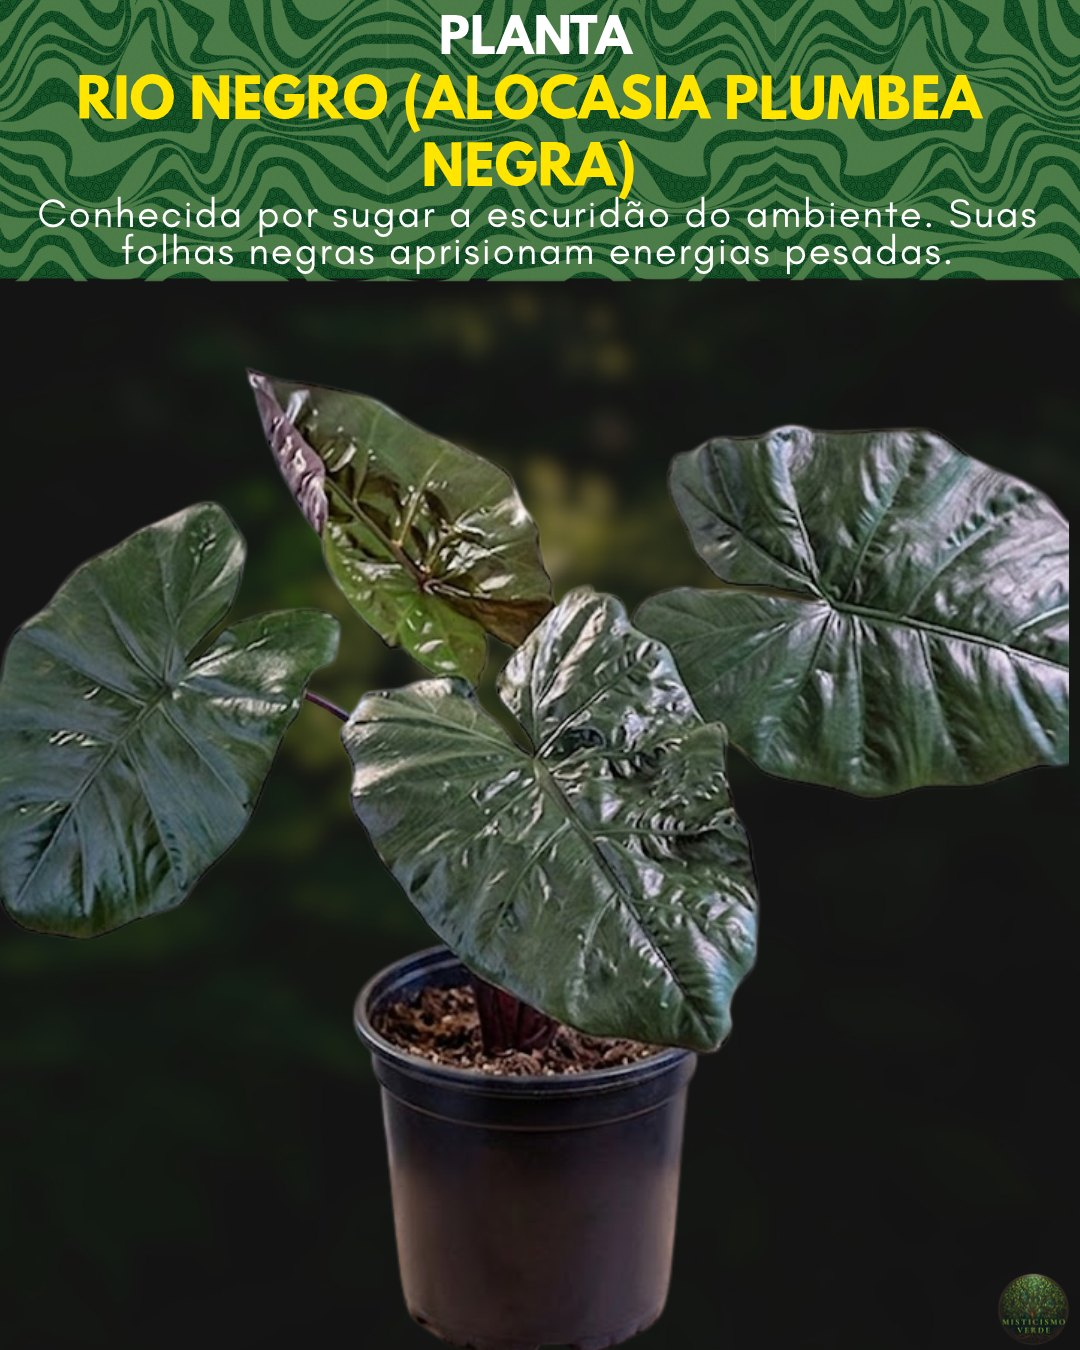
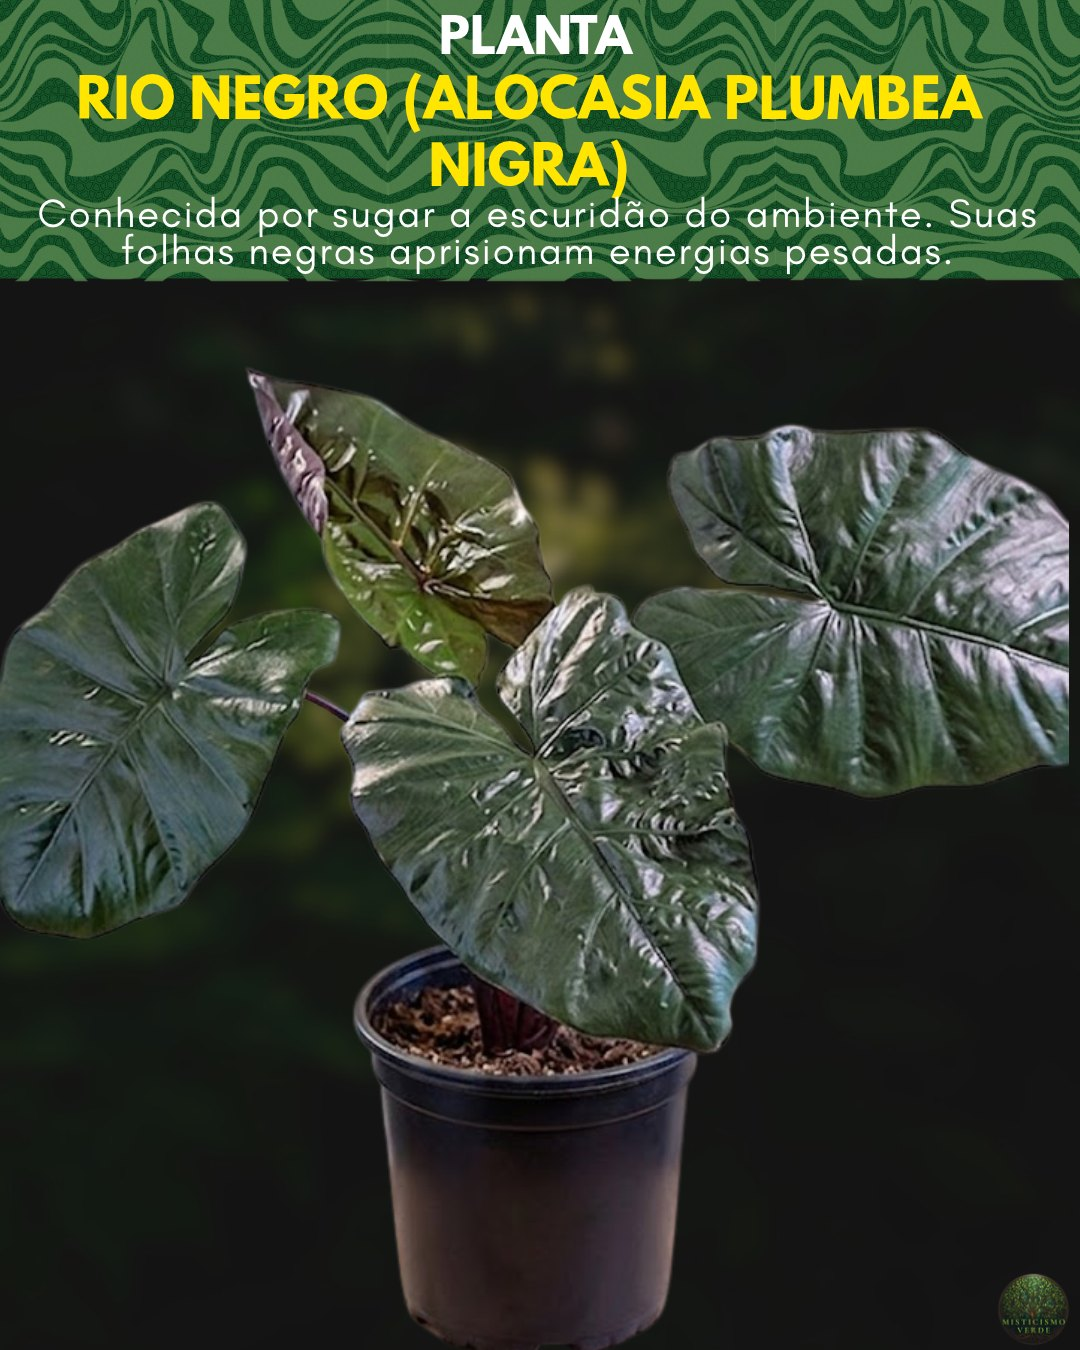
Rio Negro: foto com o nome 'Nigra' corrigido
Claude-Session: https://claude.ai/code/session_01KuumUj4R3MtaLboEaaUBPy

Changed region(s): [[0.3667, 0.0933, 0.6111, 0.1556]]

diff --git a/site/index.html b/site/index.html
@@ -148,4 +148,4 @@
 </body>
 </html>
 
-<!-- montado em 2026-11-24 12:39 UTC -->
+<!-- montado em 2026-11-24 12:40 UTC -->
